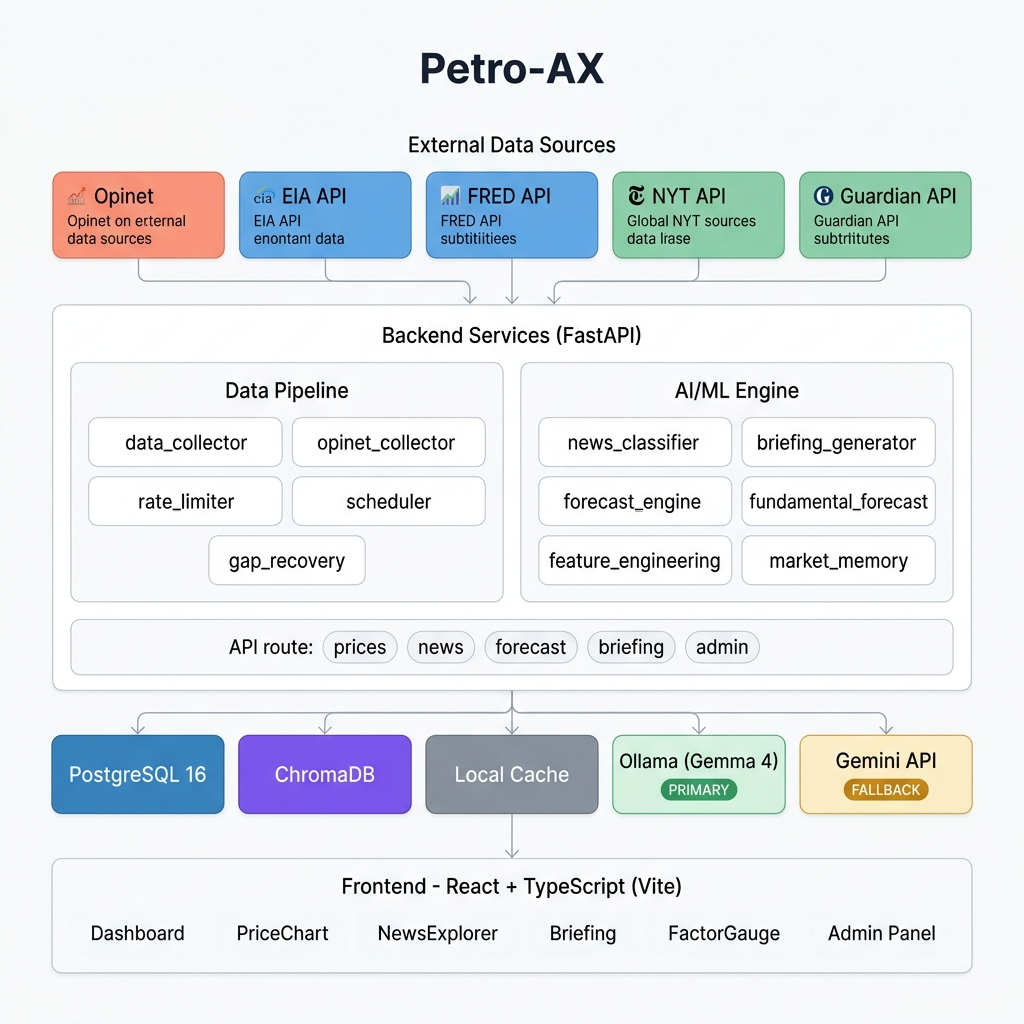
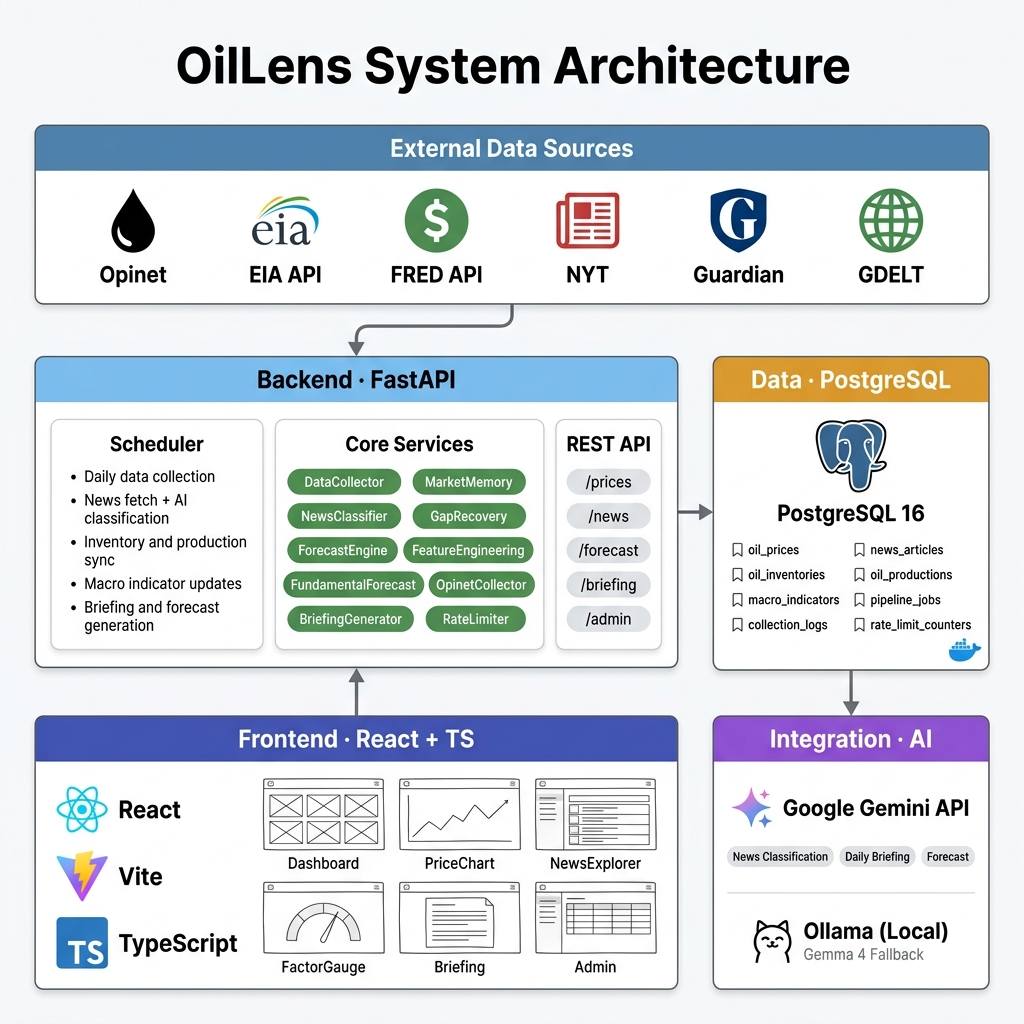
아키텍처 수정

diff --git a/backend/app/core/config.py b/backend/app/core/config.py
@@ -10,7 +10,7 @@ class Settings(BaseSettings):
     """애플리케이션 설정"""
 
     # 프로젝트 기본 정보
-    PROJECT_NAME: str = "Petro-AX"
+    PROJECT_NAME: str = "OilLens"
     VERSION: str = "0.2.0"
     DEBUG: bool = True
     APP_ENV: str = "development"

diff --git a/CHANGELOG.md b/CHANGELOG.md
@@ -4,6 +4,8 @@
 형식은 [Keep a Changelog](https://keepachangelog.com/ko/1.0.0/)를 따릅니다.
 
 ## [Unreleased]
+- docs: 프로젝트 공식 명칭 Petro-AX → OilLens 통일 (GEMINI.md, PRD.md, UI_GUIDE.md, FEATURES.md, config.py)
+- docs: OilLens 아키텍처 다이어그램 재생성 — 현재 서비스/컴포넌트 구조 반영
 - docs: 서비스 아키텍처 다이어그램 재생성 (`docs/architecture_diagram.png`)
 - docs: 피그마 스타일 아키텍처 다이어그램 추가 (`docs/architecture_diagram_figma.png`)
 - fix: 수동 브리핑 재생성 API(`POST /api/briefing/generate`) 및 스케줄러 자동 생성 시 발생하는 500 에러(언패킹 버그) 통합 수정

diff --git a/docs/PRD.md b/docs/PRD.md
@@ -1,4 +1,4 @@
-# PRD: 글로벌 유가 추정 및 AX 대시보드 (Petro-AX)
+# PRD: 글로벌 유가 추정 및 인텔리전스 대시보드 (OilLens)
 
 ## 목표
 오피넷 정량 지표와 다차원 요인으로 분류된 뉴스 데이터를 결합한 하이브리드 모델을 통해 국제 유가를 추정하고, 그 변동의 근본 원인과 신뢰도 높은 단기 전망을 제공하는 비즈니스 인사이트 대시보드를 구축한다.

diff --git a/docs/UI_GUIDE.md b/docs/UI_GUIDE.md
@@ -1,4 +1,4 @@
-# UI 디자인 및 UX 가이드 — Petro-AX
+# UI 디자인 및 UX 가이드 — OilLens
 
 ## 디자인 원칙
 1. **도구처럼 보여야 한다.** 마케팅 페이지가 아니라 매일 쓰는 금융 터미널. 정보 밀도 우선.

diff --git a/GEMINI.md b/GEMINI.md
@@ -1,4 +1,4 @@
-# 프로젝트: Petro-AX (글로벌 유가 추정 대시보드)
+# 프로젝트: OilLens (글로벌 유가 추정 대시보드)
 
 ## 기술 스택
 - Frontend: React + TypeScript (Vite)

diff --git a/backend/ml/FEATURES.md b/backend/ml/FEATURES.md
@@ -1,4 +1,4 @@
-# Petro-AX XGBoost 모델 피처 목록
+# OilLens XGBoost 모델 피처 목록
 
 이 문서는 `FeatureEngineer` 서비스에서 생성되는 머신러닝 피처를 설명합니다.
 
